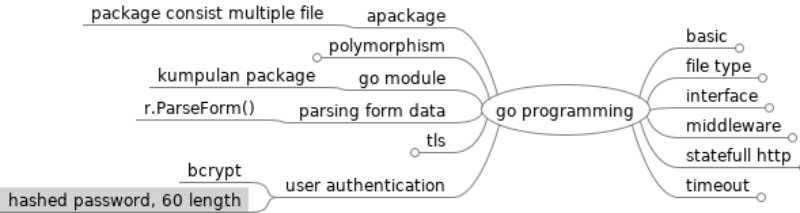
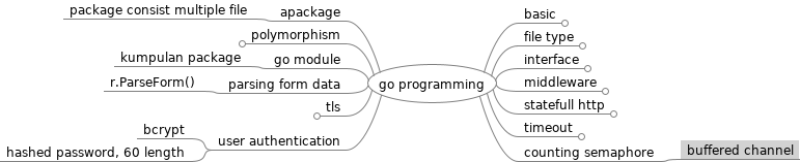
update lecture notes

diff --git a/go programming.mm b/go programming.mm
@@ -80,5 +80,8 @@
 <node CREATED="1651418599664" ID="ID_795671282" MODIFIED="1651418604758" TEXT="bcrypt"/>
 <node CREATED="1651494107051" ID="ID_701013129" MODIFIED="1651494126491" TEXT="hashed password, 60 length"/>
 </node>
+<node CREATED="1651832960852" ID="ID_776366098" MODIFIED="1651832965806" POSITION="right" TEXT="counting semaphore">
+<node CREATED="1651832966133" ID="ID_455488660" MODIFIED="1651832971704" TEXT="buffered channel"/>
+</node>
 </node>
 </map>
